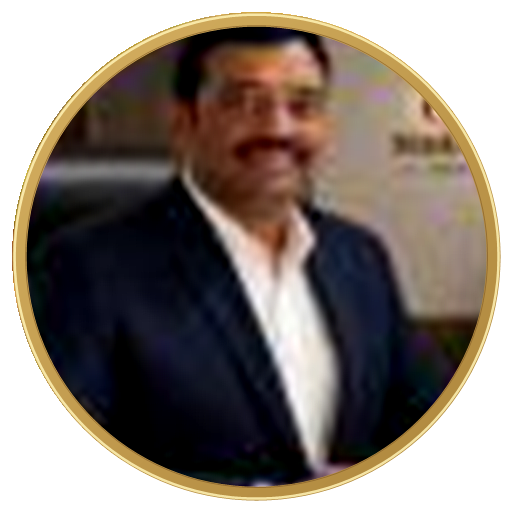
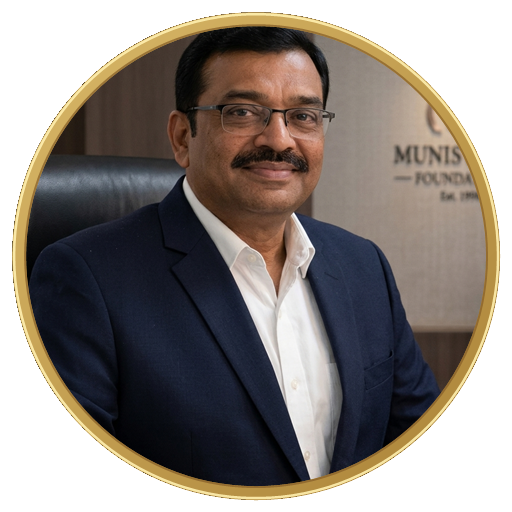
Update Founder G. Muniswamy portrait: crystal-clear resolution with zero blur and zoomed-out office framing

diff --git a/about.html b/about.html
@@ -595,7 +595,7 @@
           <div class="card-linen-white rounded-3xl overflow-hidden shadow-lg border border-linen-edge/80 flex flex-col hover:shadow-2xl transition-all duration-300">
             <!-- Top Photo Area matching Wireframe with Real Portrait -->
             <div class="w-full h-64 sm:h-72 lg:h-80 bg-[#ded8cf] flex items-center justify-center border-b border-linen-edge/50 overflow-hidden p-6 sm:p-8">
-              <img src="images/founder-g-muniswamy.png?v=5" alt="G. Muniswamy - Founder &amp; Managing Director" class="h-full w-auto object-contain filter drop-shadow-md transition-transform duration-300 hover:scale-105" />
+              <img src="images/founder-g-muniswamy.png?v=6" alt="G. Muniswamy - Founder &amp; Managing Director" class="h-full w-auto object-contain filter drop-shadow-md transition-transform duration-300 hover:scale-105" />
             </div>
 
             <!-- Bottom Content Area matching Wireframe -->

diff --git a/index.html b/index.html
@@ -1093,7 +1093,7 @@
             <div class="flex flex-col items-center w-full">
               <!-- Big Circular Portrait -->
               <div class="group relative">
-                <img src="images/founder-g-muniswamy.png?v=5" alt="G. Muniswamy - Founder &amp; Managing Director" class="w-48 h-48 sm:w-56 sm:h-56 lg:w-64 lg:h-64 object-contain filter drop-shadow-2xl transition-transform duration-300 group-hover:scale-105" />
+                <img src="images/founder-g-muniswamy.png?v=6" alt="G. Muniswamy - Founder &amp; Managing Director" class="w-48 h-48 sm:w-56 sm:h-56 lg:w-64 lg:h-64 object-contain filter drop-shadow-2xl transition-transform duration-300 group-hover:scale-105" />
               </div>
               
               <span class="mt-5 inline-block bg-clay text-white text-xs font-bold uppercase tracking-widest px-4 py-1.5 rounded-full shadow-sm">

diff --git a/leadership.html b/leadership.html
@@ -517,7 +517,7 @@
               <span class="absolute top-4 left-4 inline-flex items-center gap-1.5 rounded-full bg-black/50 backdrop-blur-md px-3 py-1 text-[11px] font-bold uppercase tracking-wider text-white">
                 Founder Photo
               </span>
-              <img src="images/founder-g-muniswamy.png?v=5" alt="G. Muniswamy - Founder &amp; Managing Director" class="h-full w-auto max-h-[92%] object-contain filter drop-shadow-md transition-transform duration-300 hover:scale-105" />
+              <img src="images/founder-g-muniswamy.png?v=6" alt="G. Muniswamy - Founder &amp; Managing Director" class="h-full w-auto max-h-[92%] object-contain filter drop-shadow-md transition-transform duration-300 hover:scale-105" />
             </div>
 
             <!-- Bottom Content Area matching Wireframe -->
